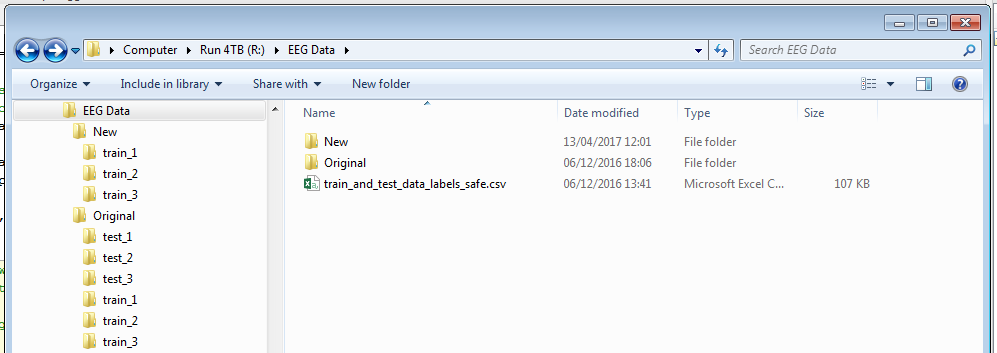
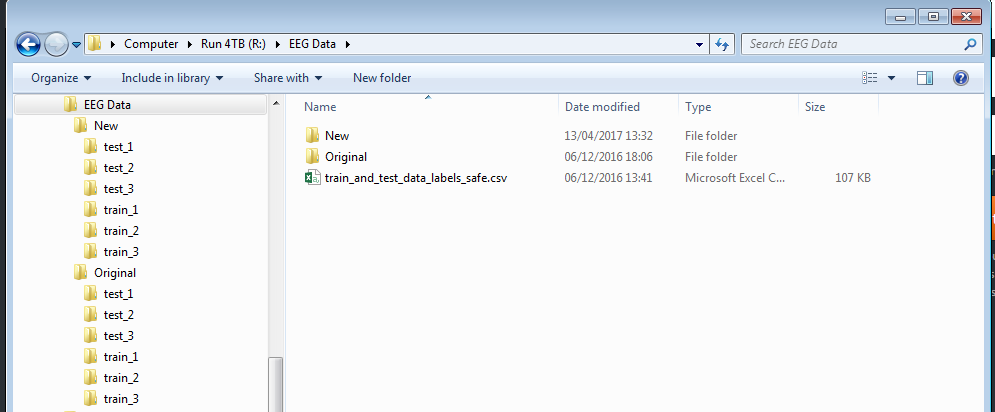
Fixed paths

diff --git a/@featuresObject/featuresObject.m b/@featuresObject/featuresObject.m
@@ -592,7 +592,7 @@ classdef featuresObject
                 fileList.Properties.VariableNames = vars(:,2);
                 fileList.Properties.VariableDescriptions = vars(:,3);
                 
-                sDir = [paths.dataDir, str, '_', subs{s}, '\'];
+                sDir = [paths.dataDir, str, '_', subs{s}, '_New\'];
                 
                 % files = dir([sDir, subs{s}, '*']);
                 files = dir([sDir, '*.mat']);

diff --git a/predict.m b/predict.m
@@ -17,7 +17,7 @@ startTime = tic;
 % Set paths and prepare parameters
 
 % params.paths = 'S:\EEG Data Mini\';
-params.paths.dataDir = 'S:\EEG Data\New\';
+params.paths.dataDir = 'R:\EEG Data\New\';
 params.paths.ModelPath = 'trainedModelsCompactTest.mat';
 
 params.master = 61; % Version
